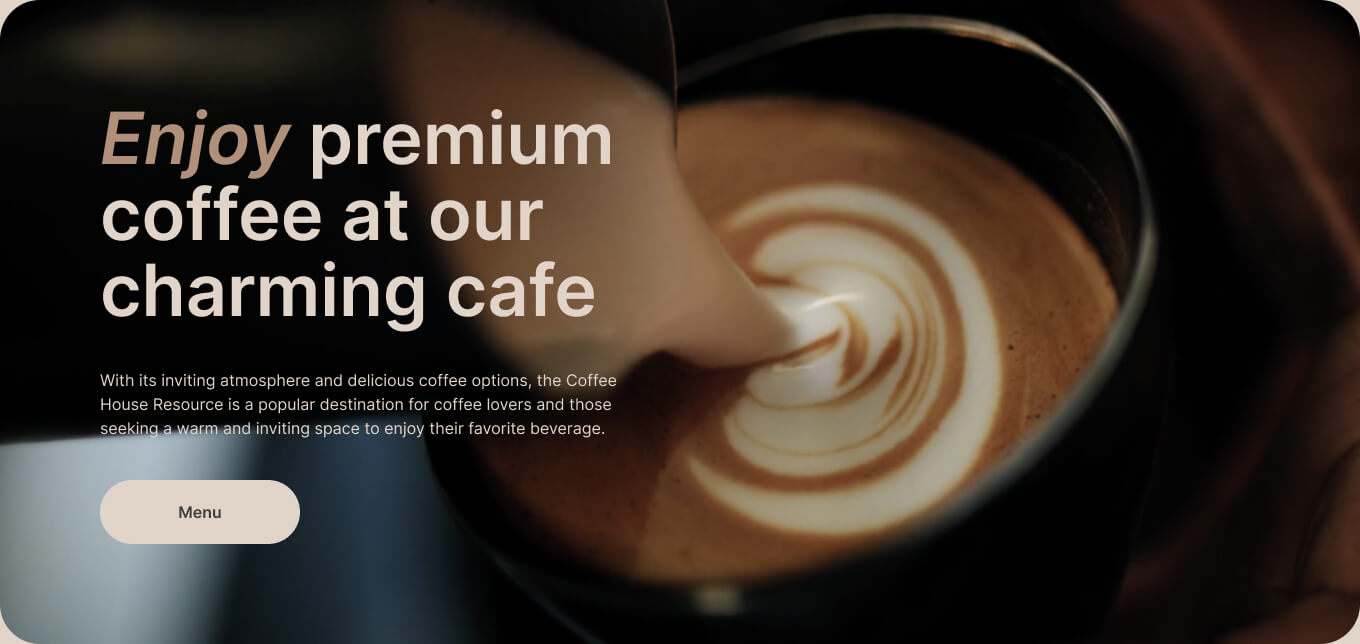
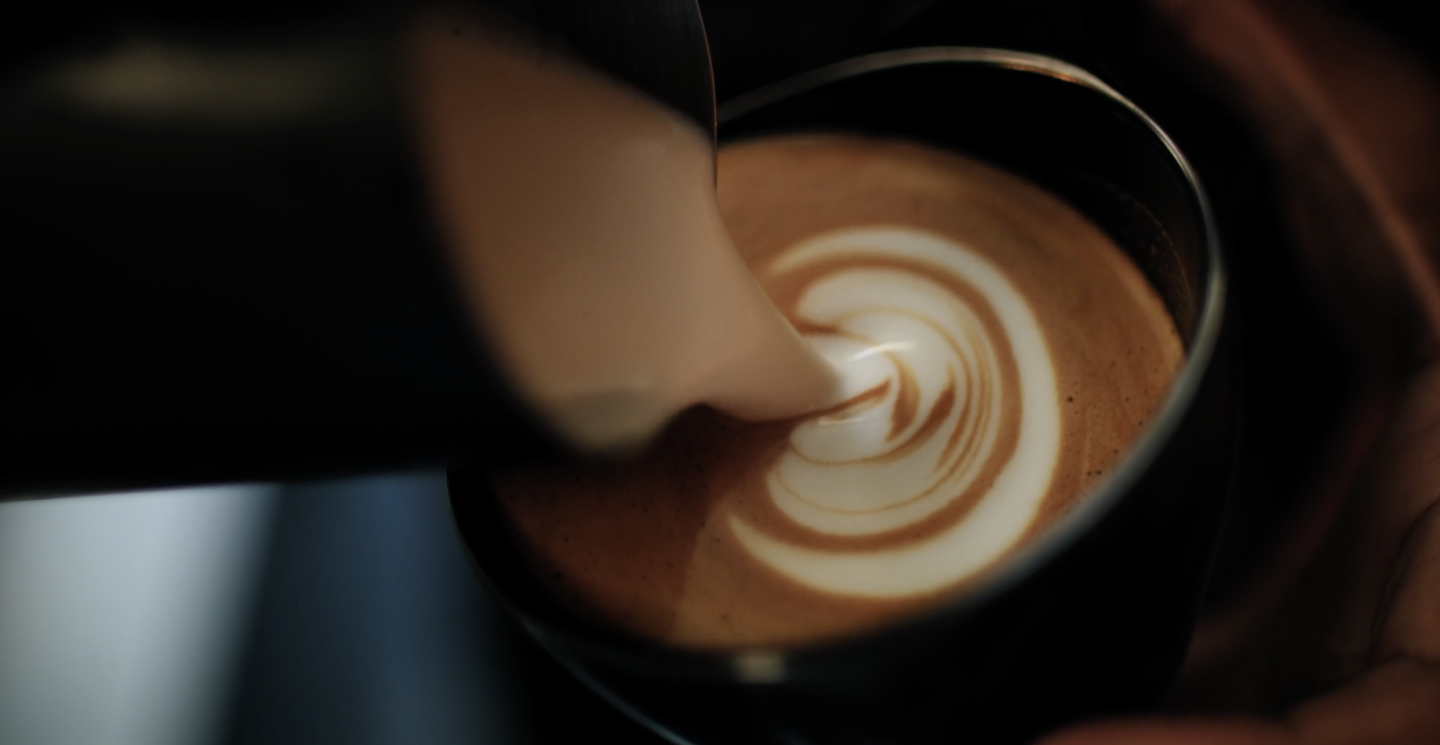
feat: add fonts, header and first image container in index.html

diff --git a/coffee-house/index.html b/coffee-house/index.html
@@ -1,32 +1,63 @@
 <!DOCTYPE html>
 <html lang="en">
+
 <head>
     <meta charset="UTF-8">
     <meta name="viewport" content="width=device-width, initial-scale=1.0">
+    <link rel="preconnect" href="https://fonts.googleapis.com">
+    <link rel="preconnect" href="https://fonts.gstatic.com" crossorigin>
+    <link href="https://fonts.googleapis.com/css2?family=Inter:wght@400;600&display=swap" rel="stylesheet">
     <link rel="stylesheet" type="text/css" href="assets/css/normalize.css" />
     <link rel="stylesheet" type="text/css" href="assets/css/index.css" />
     <title>Coffee House</title>
 </head>
+
 <body>
     <header class="header">
         <div class="logo">
-
+            <img src="assets/svg/logo.svg" alt="Coffee House">
         </div>
         <nav>
             <ul>
-                <li>Favorite coffee</li>
-                <li>About</li>
-                <li>Mobile app</li>
-                <li>Contact us</li>
+                <li><a href="#">Favorite coffee</a></li>
+                <li><a href="#">About</a></li>
+                <li><a href="#">Mobile app</a></li>
+                <li><a href="#">Contact us</a></li>
             </ul>
         </nav>
         <div class="menu">
-            
+            <a href="#">
+                <div class="menu-line">
+                    <span>Menu</span>
+                    <svg xmlns="http://www.w3.org/2000/svg" width="20" height="20" viewBox="0 0 20 20" fill="none">
+                        <path
+                            d="M14.167 9.76667V11.6667C14.167 14.8883 11.5553 17.5 8.33366 17.5C5.112 17.5 2.50033 14.8883 2.50033 11.6667V9.76667C2.50033 9.4353 2.76896 9.16667 3.10033 9.16667H13.567C13.8984 9.16667 14.167 9.4353 14.167 9.76667Z"
+                            stroke-width="1.5" stroke-linecap="round" stroke-linejoin="round" />
+                        <path
+                            d="M10.0003 7.50008C10.0003 6.66675 10.5956 5.83341 11.786 5.83341V5.83341C13.101 5.83341 14.167 4.76743 14.167 3.45246V2.91675"
+                            stroke-width="1.5" stroke-linecap="round" stroke-linejoin="round" />
+                        <path
+                            d="M6.66634 7.5V7.08333C6.66634 5.70262 7.78563 4.58333 9.16634 4.58333V4.58333C10.0868 4.58333 10.833 3.83714 10.833 2.91667V2.5"
+                            stroke-width="1.5" stroke-linecap="round" stroke-linejoin="round" />
+                        <path
+                            d="M13.333 9.16675H15.4163C16.5669 9.16675 17.4997 10.0995 17.4997 11.2501C17.4997 12.4007 16.5669 13.3334 15.4163 13.3334H14.1663"
+                            stroke-width="1.5" stroke-linecap="round" stroke-linejoin="round" />
+                    </svg>
+                </div>
+            </a>
         </div>
     </header>
 
     <main class="main">
-
+        <section class="img-container">
+            <div class="img-container__content">
+                <h1><span>Enjoy</span> premium coffee at our charming cafe</h1>
+                <span>With its inviting atmosphere and delicious coffee options, the Coffee House Resource is a popular
+                    destination for coffee lovers and those seeking a warm and inviting space to enjoy their favorite
+                    beverage.</span>
+                <button>Menu</button>
+            </div>
+        </section>
     </main>
 
     <footer class="footer">
@@ -35,4 +66,5 @@
 
     <script src="assets/js/index.js"></script>
 </body>
+
 </html>

diff --git a/coffee-house/assets/css/index.css b/coffee-house/assets/css/index.css
@@ -6,4 +6,129 @@
 
 body {
     background-color: #E1D4C9;
+    color: #403F3D;
+    width: 1440px;
+    margin: 0 auto;
+    font-family: 'Inter';
+    font-size: 16px;
+}
+
+ul {
+    list-style-type: none;
+}
+
+a {
+    text-decoration: none;
+    cursor: pointer;
+    color: inherit;
+    transition: color 0.5s ease;
+}
+
+a:hover {
+    color:#B0907A;
+}
+
+header {
+    display: flex;
+    justify-content: space-between;
+    align-items: center;
+    margin: 20px 0;
+}
+
+nav > ul {
+    display: flex;
+    gap: 40px;
+    font-weight: 600;
+    line-height: 150%; /* 24px */
+}
+
+nav > ul > li > a:after, .menu > a:after {
+	content: "";
+    display: block;
+    right: 0;
+    bottom: -5px;
+    width: 0;
+    height: 1px;
+    background-color:#E1D4C9;
+    transition: width 0.5s;
+}
+
+nav > ul > li > a:hover:after, .menu > a:hover:after {
+	content: "";
+    width: 100%;
+    display: block;
+    left: 0;
+    bottom: -5px;
+    height: 1px;
+    background-color:#B0907A;
+    transition: width 0.5s;
+}
+
+.menu > a > svg {
+    width: 20px;
+    height: 20px;
+}
+
+.menu > a {
+    font-weight: 600;
+    stroke: #403F3D;
+    transition: stroke 0.5s;
+}
+
+.menu > a:hover {
+    stroke: #B0907A;
+}
+
+.menu-line {
+    display: flex;
+    justify-content: center;
+    align-items: flex-end;
+    gap: 8px;
+}
+
+.img-container {
+    background: url(../img/index-page/container.jpg), lightgray 50% / cover no-repeat;
+    display: flex;
+    max-width: 100%;
+    max-height: auto;
+    padding: 100px;
+    flex-direction: column;
+    justify-content: center;
+    align-items: flex-start;
+    align-self: stretch;
+    border-radius: 40px;
+    color: #E1D4C9;
+}
+
+.img-container__content {
+    display: flex;
+    flex-direction: column;
+    gap: 40px;
+    max-width: 530px;
+}
+
+h1 {
+    font-size: 72px;
+    font-weight: 600;
+    line-height: 105%; /* 75.6px */
+}
+
+h1 > span {
+    color: #B0907A;
+    font-style: italic;
+}
+
+.img-container__content > span {
+    line-height: 150%; /* 24px */
+}
+
+.img-container__content > button {
+    width: 200px;
+    padding: 20px 78px;
+    justify-content: center;
+    align-items: center;
+    gap: 8px;
+    border-radius: 100px;
+    background-color: #E1D4C9;
+    cursor: pointer;
 }

diff --git a/coffee-house/assets/css/normalize.css b/coffee-house/assets/css/normalize.css
@@ -39,7 +39,6 @@
   
   h1 {
     font-size: 2em;
-    margin: 0.67em 0;
   }
   
   /* Grouping content
